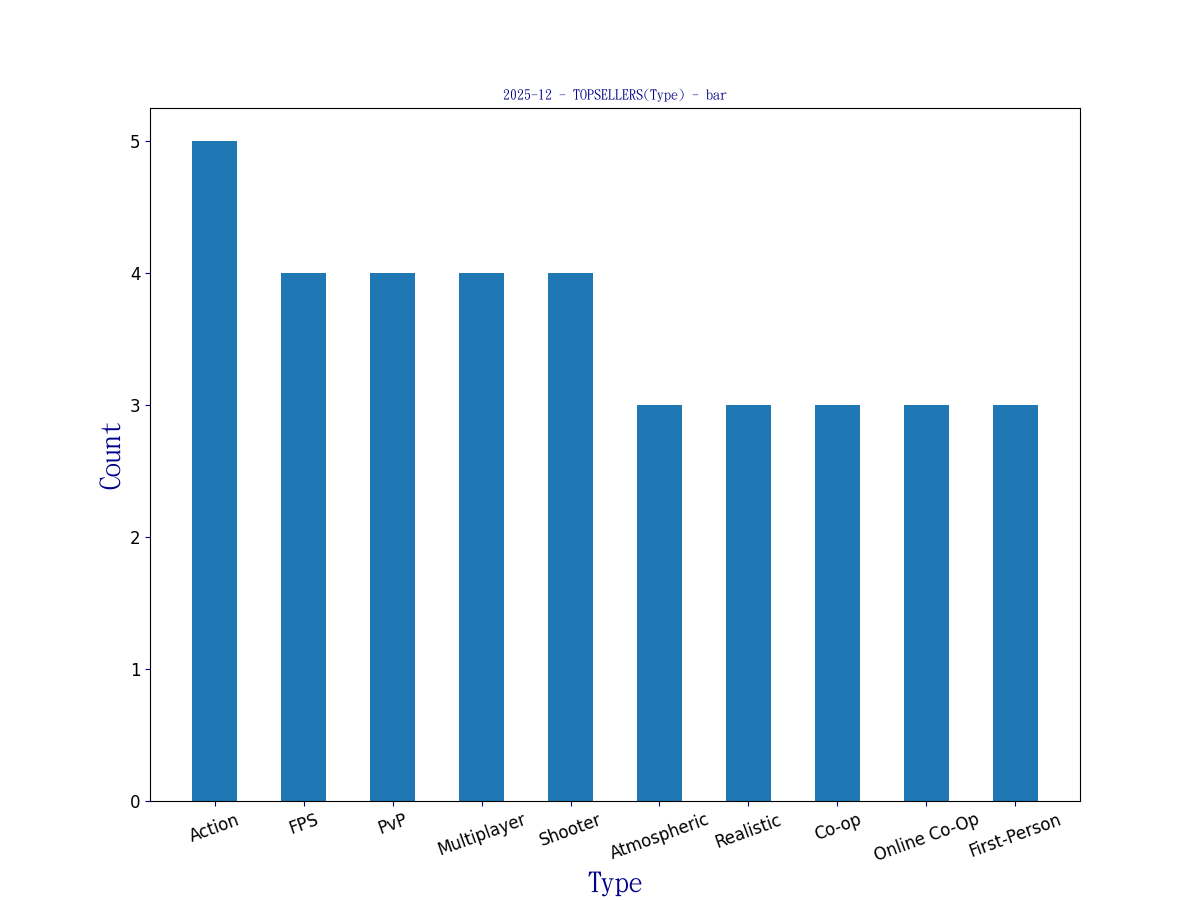
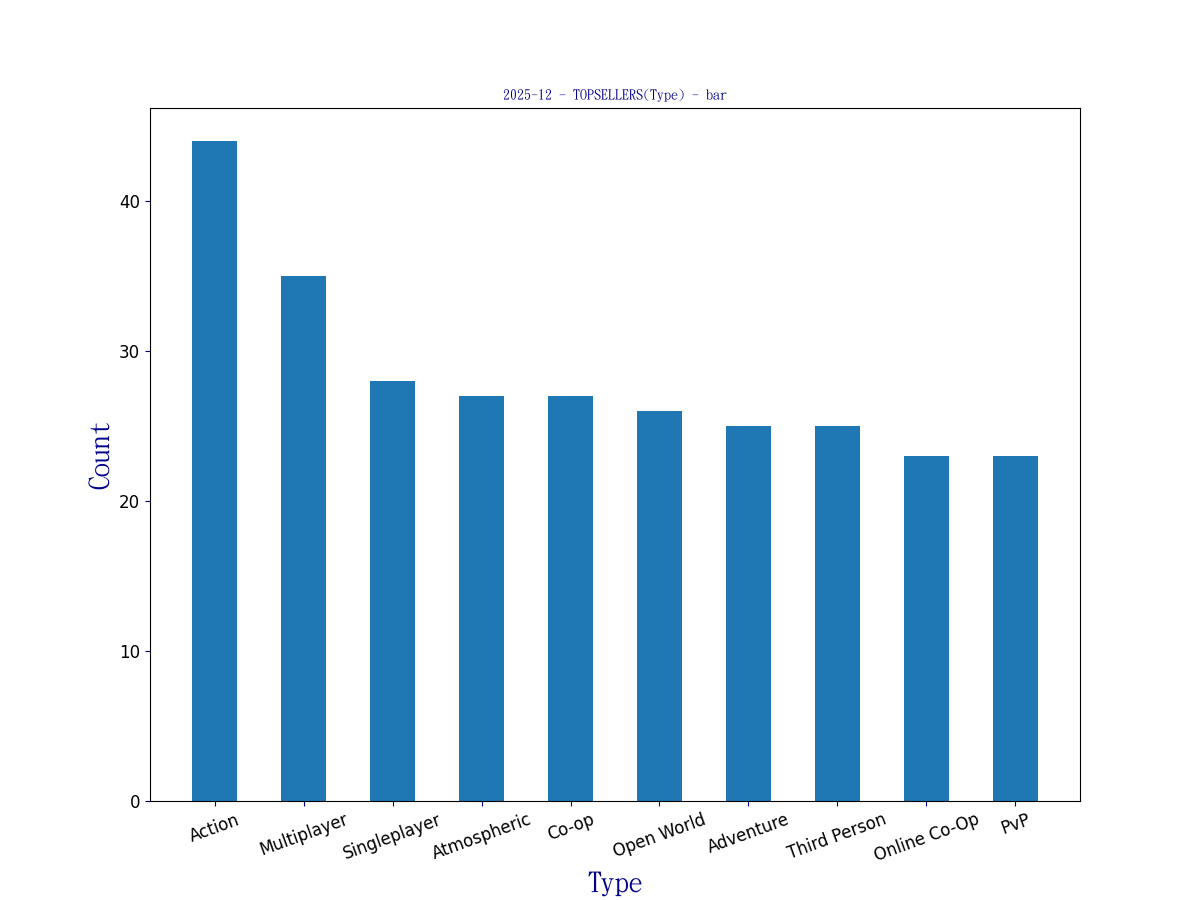
Auto update on 2025/12/02 週二 10:10:13.49

diff --git a/Steam-Analyze-Statistics-ASP/Models/doPlot.py b/Steam-Analyze-Statistics-ASP/Models/doPlot.py
@@ -237,14 +237,21 @@ def markPlot(dbTable):
     
 
     # 長方圖 - 一個月內上榜遊戲的類別比較
+    sql = 'select type from `{}` where date >= "{}"'.format(dbTable, now.strftime("%Y-%m-01"))
+
+    cursor = mydb.cursor()
+    cursor.execute(sql)
+    typeInfo = cursor.fetchall()    
+    
     typeGroup = {}
-    for time in range(len(info)):
-        for typeName in info[time][1].split(","):
+    for record in typeInfo:
+        for typeName in record[0].split(","):
             if typeName in typeGroup:
                 typeGroup[typeName] += 1
             else:
                 typeGroup[typeName] = 1
-
+                
+    cursor.close()
     barPlot(typeGroup, dbTable, now)
 
     # 圓餅圖 - 特價與免費與沒有特價的比例
